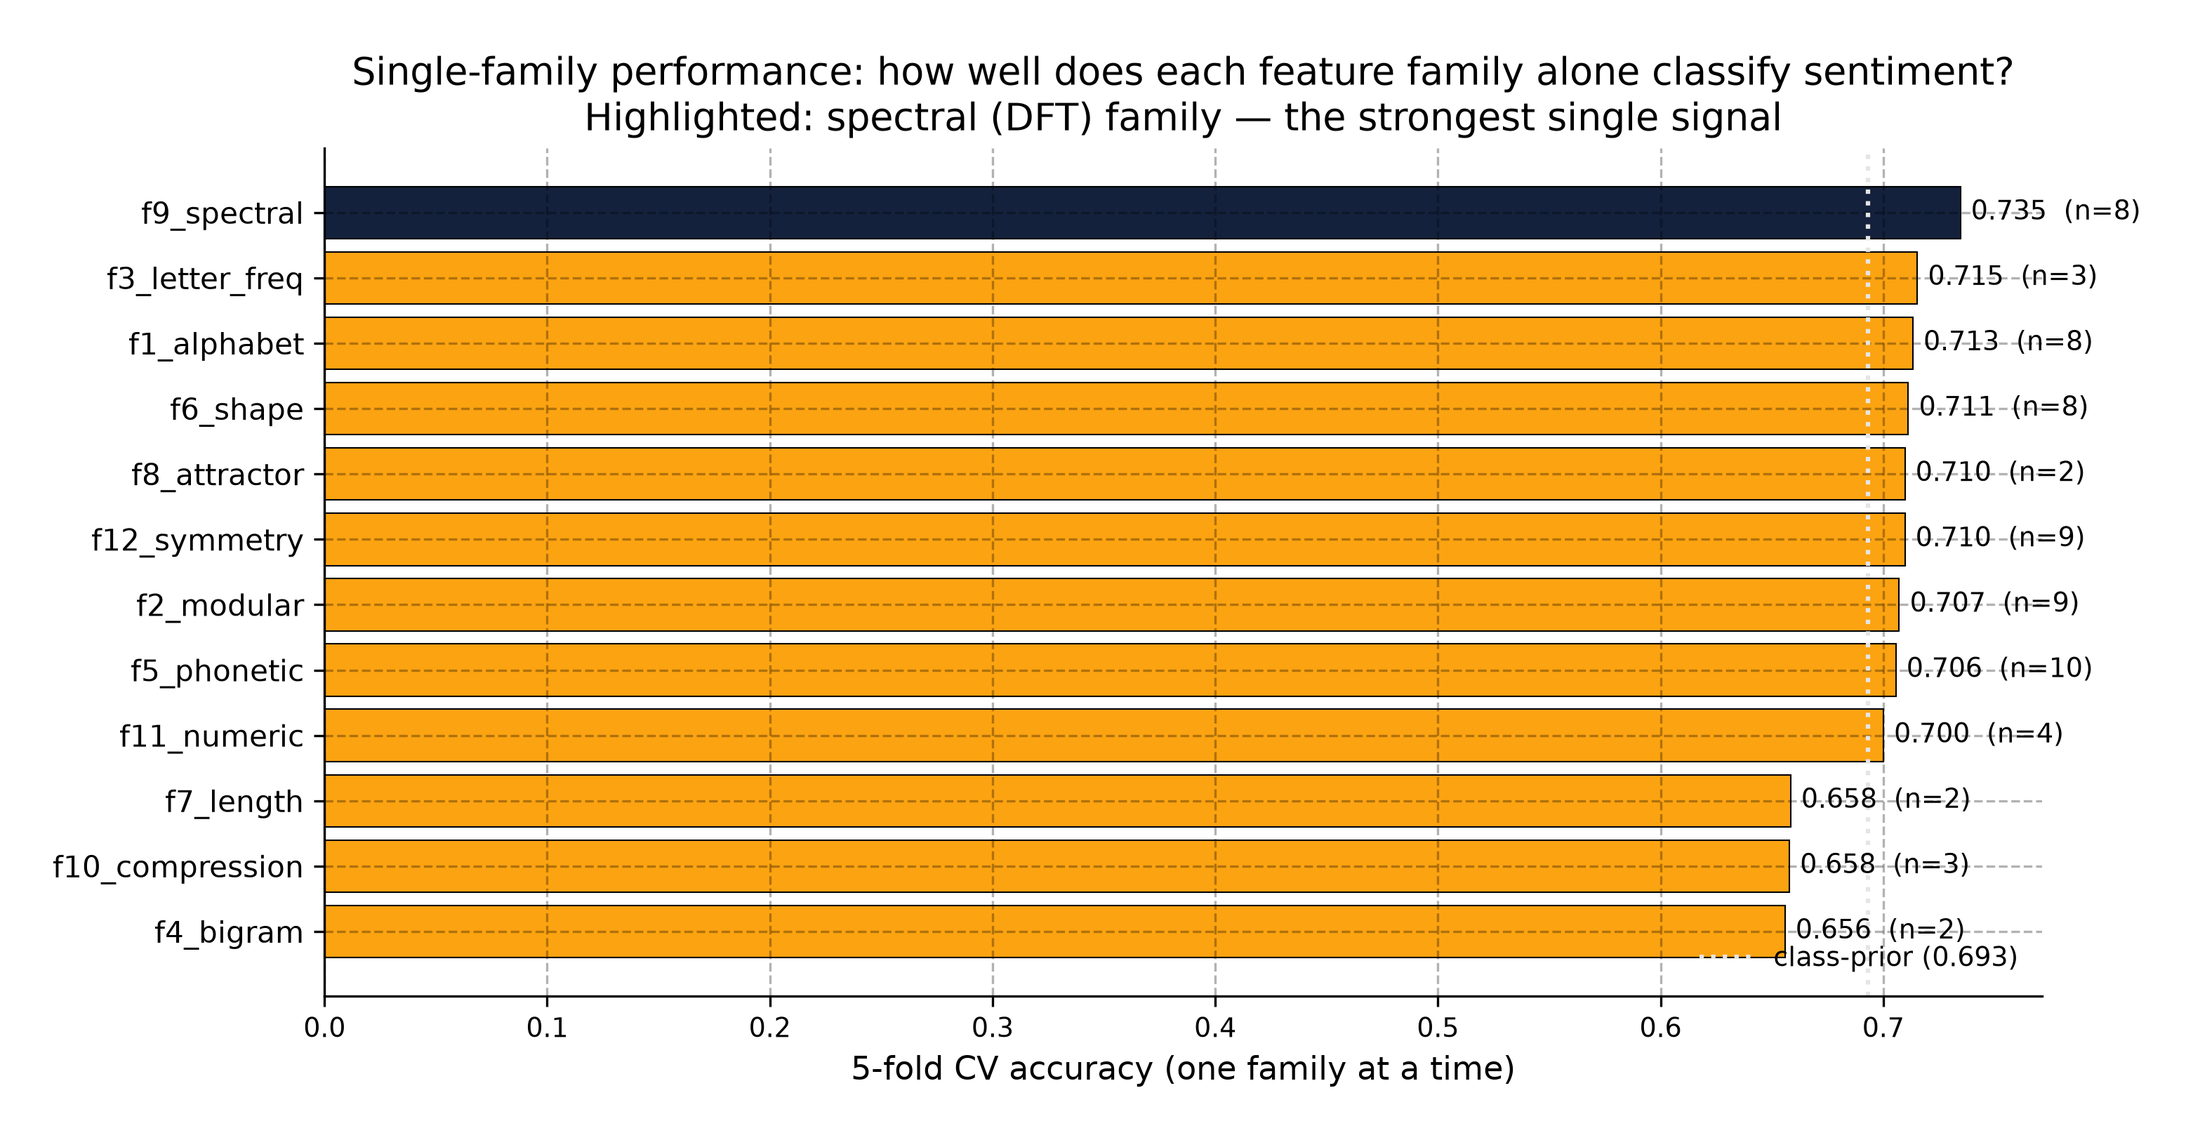
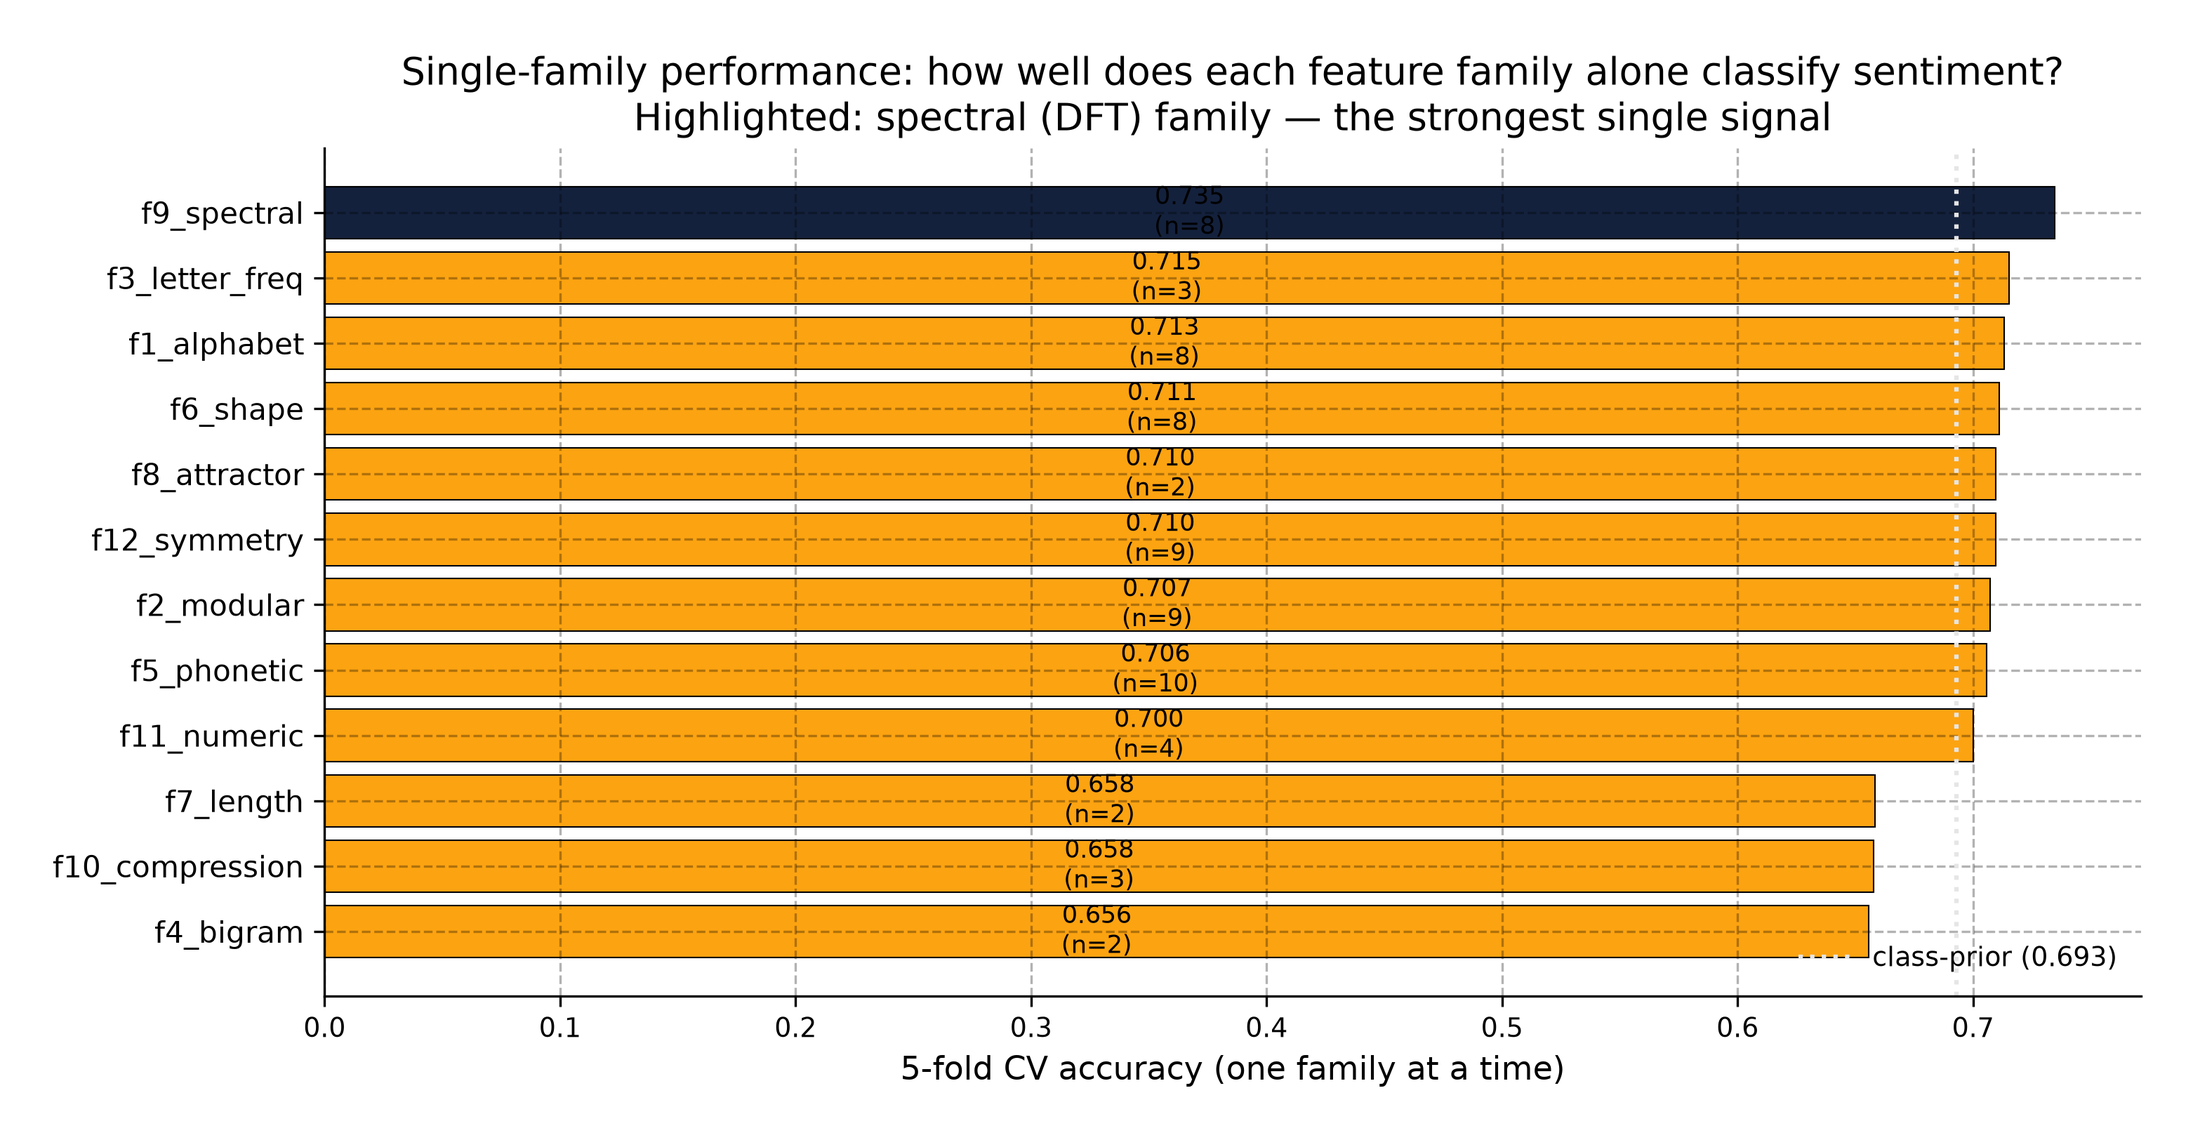
Fix text collisions in every figure; add reproducible overlap gate; extend audit with baseline/leak checks
Figures (all 15 now verified overlap-free via bbox collision scan):
- general_news_eval: Panel B method-name tick labels collided (IoU 0.5-1.0);
  replaced with short labels + 32deg rotation; Panel A adds the majority-class
  baseline line (0.616) disclosed in the previous pass.
- cascade_sentiment_eval: same tick-label collision in Panels B and C fixed
  with short labels + steeper rotation.
- family_ablation, word_level_correlations: negative-bar value labels (ha=right)
  bled past the axes into y-tick labels; now ha=left with a _pad_xlim_for_texts
  helper that measures text extent and grows the x-limits so nothing clips.
- single_family: value labels moved inside the bars to clear the legend.
- feature_heatmap: the separate 'r=...' artist overlapped every row label
  (IoU 0.79); r values folded into the y-tick labels.
- shap_waterfall: SHAP's own waterfall layout painted 'value = feature' text
  on top of its tick labels (96+ collisions); replaced with a hand-drawn
  matplotlib waterfall with controlled label placement.
- New src/check_figure_overlaps.py regenerates every figure and fails on any
  text-text bbox overlap (threshold 2 px) - the quality gate.

robustness_analysis.py additions (all numbers already in the docs, now
reproducible):
- majority-class baseline (0.6160) for the general clear set
- leak-adjusted headline dropping NewsMTSC dev rows 268/308: 0.6210 vs 0.5778,
  +4.31 pts, same 31/3 discordant pairs - the 2-sentence training overlap
[…]

diff --git a/src/figures.py b/src/figures.py
@@ -39,6 +39,32 @@ COLORS = {
 }
 
 
+def _pad_xlim_for_texts(ax, texts, edge_pad_px: float = 6.0) -> None:
+    """Expand the x-limits so out-of-axis value labels are never clipped.
+
+    Text artists placed past the data extrema (e.g. bar value labels anchored
+    at a bar tip) are not accounted for by matplotlib's autoscale, so they can
+    bleed past the axes edge and collide with tick labels. Draw once, measure
+    the overshoot in pixels, and grow the x-limits accordingly.
+    """
+    fig = ax.figure
+    fig.canvas.draw()
+    renderer = fig.canvas.get_renderer()
+    axbox = ax.get_window_extent(renderer=renderer)
+    lo, hi = ax.get_xlim()
+    need_lo = need_hi = 0.0
+    for t in texts:
+        e = t.get_window_extent(renderer=renderer)
+        if e.x0 < axbox.x0 + edge_pad_px:
+            need_lo = max(need_lo, axbox.x0 - e.x0 + edge_pad_px)
+        if e.x1 > axbox.x1 - edge_pad_px:
+            need_hi = max(need_hi, e.x1 - axbox.x1 + edge_pad_px)
+    ddx_lo = (hi - lo) * need_lo / axbox.width
+    ddx_hi = (hi - lo) * need_hi / axbox.width
+    if ddx_lo > 0 or ddx_hi > 0:
+        ax.set_xlim(lo - ddx_lo, hi + ddx_hi)
+
+
 # ---- 1. Headline summary figure ----
 def plot_headline_summary(out_path: Path) -> None:
     """One-glance figure: CV accuracy vs class-prior baseline + null distribution.
@@ -163,8 +189,8 @@ def plot_word_level_correlations(out_path: Path) -> None:
                  f"Green = significant at Bonferroni α = 0.05/68 ≈ 7.4e-4")
     for i, (bar, row) in enumerate(zip(bars, df.itertuples())):
         ax.text(row.r + (0.001 if row.r > 0 else -0.001), i,
-                f" {row.r:+.3f}", va="center",
-                ha="left" if row.r > 0 else "right", fontsize=9)
+                f" {row.r:+.3f}", va="center", ha="left", fontsize=9)
+    _pad_xlim_for_texts(ax, [t for t in ax.texts])
     fig.savefig(out_path, dpi=300)
     plt.close(fig)
     print(f"  Wrote {out_path.name}")
@@ -188,11 +214,10 @@ def plot_family_ablation(out_path: Path) -> None:
     ax.set_title("Leave-one-family-out ablation\n"
                  "Red = removing hurts; Green = removing helps (overfitting)")
     for bar, delta, acc in zip(bars, df["delta"], df["accuracy_mean"]):
-        ax.text(delta + (0.001 if delta >= 0 else -0.001),
-                bar.get_y() + bar.get_height()/2,
+        ax.text(delta + 0.001, bar.get_y() + bar.get_height()/2,
                 f" {delta:+.4f}  (acc={acc:.3f})",
-                va="center",
-                ha="left" if delta >= 0 else "right", fontsize=8.5)
+                va="center", ha="left", fontsize=8.5)
+    _pad_xlim_for_texts(ax, [t for t in ax.texts])
     fig.savefig(out_path, dpi=300)
     plt.close(fig)
     print(f"  Wrote {out_path.name}")
@@ -214,8 +239,8 @@ def plot_single_family(out_path: Path) -> None:
     ax.set_title("Single-family performance: how well does each feature family alone classify sentiment?\n"
                  "Highlighted: spectral (DFT) family — the strongest single signal")
     for bar, acc, n in zip(bars, df["accuracy_mean"], df["n_features"]):
-        ax.text(acc + 0.001, bar.get_y() + bar.get_height()/2,
-                f" {acc:.3f}  (n={n})", va="center", fontsize=9)
+        ax.text(acc / 2, bar.get_y() + bar.get_height()/2,
+                f"{acc:.3f}\n(n={n})", va="center", ha="center", fontsize=8.5)
     ax.legend(loc="lower right")
     fig.savefig(out_path, dpi=300)
     plt.close(fig)
@@ -353,10 +378,11 @@ def plot_feature_heatmap(out_path: Path) -> None:
                  "Red = feature is higher in low-valence words; Blue = higher in high-valence words")
     cbar = fig.colorbar(im, ax=ax, fraction=0.04, pad=0.04)
     cbar.set_label("Z-score (per feature)", fontsize=9)
-    # Annotate with the raw r value
-    for i, f in enumerate(top_features):
-        r = corr_df[corr_df["feature"] == f]["r"].iloc[0]
-        ax.text(-0.5, i, f"r={r:+.3f}", ha="right", va="center", fontsize=7.5, color="black")
+    # Annotate with the raw r value, folded into the row labels so it can never
+    # collide with the tick text (a separate left-side artist did).
+    r_by_feat = {row.feature: row.r for row in corr_df.itertuples()}
+    ax.set_yticklabels([f"{f}  (r={r_by_feat[f]:+.3f})" for f in top_features],
+                       fontsize=9)
     fig.savefig(out_path, dpi=300)
     plt.close(fig)
     print(f"  Wrote {out_path.name}")

diff --git a/src/visualise.py b/src/visualise.py
@@ -292,15 +292,16 @@ def make_shap_bar(shap_values, feature_names, n_top=30):
 # ══════════════════════════════════════════════════════════════════════════════
 
 def make_shap_waterfall(shap_vals, X_sample, feature_names, explainer,
-                        pos_idx=0, neg_idx=None):
+                        pos_idx=0, neg_idx=None, max_display=12):
     """
     Waterfall plots for one positive and one negative prediction.
     Shows how each feature pushes the prediction toward or away from positive.
     Pass the same TreeExplainer used in main() so we get the correct expected_value.
-    """
-    import shap
-    from shap import Explanation
 
+    Drawn manually with matplotlib instead of ``shap.plots.waterfall``: SHAP's
+    internal layout places "value = feature" text over its own y-tick labels on
+    narrow axes, which cannot be repositioned from outside.
+    """
     short = {fn: fn[:28] for fn in feature_names}
     n_feats = len(feature_names)
 
@@ -314,17 +315,51 @@ def make_shap_waterfall(shap_vals, X_sample, feature_names, explainer,
     else:
         ev = float(ev)
 
-    fig, axes = plt.subplots(1, 2, figsize=(16, 5))
+    fig, axes = plt.subplots(1, 2, figsize=(22, 6))
 
     def _plot(idx, ax, label):
-        sv = shap_vals[idx, :n_feats].copy()
+        sv = shap_vals[idx, :n_feats].astype(float)
         dr = X_sample[idx, :n_feats]
-        exp = Explanation(values=sv, base_values=ev, data=dr,
-                          feature_names=[short[f] for f in feature_names])
-        plt.sca(ax)
-        shap.plots.waterfall(exp, show=False, max_display=15)
-        ax.set_title(f"Predicted: {label.upper()}", fontsize=10)
-        ax.tick_params(labelsize=7)
+        order = np.argsort(-np.abs(sv))
+        display = list(order[:max_display])
+        other_sv = 0.0
+        if len(order) > max_display:
+            other_sv = float(sv[order[max_display:]].sum())
+            display.append(-1)
+        rows = np.arange(len(display))
+        pos = float(ev)
+        y = len(display) - 1 - rows  # top-down order
+        for i, fi in enumerate(display):
+            if fi == -1:
+                val = other_sv
+                name = f"{len(order) - max_display} other features"
+            else:
+                val = float(sv[fi])
+                fn = short[feature_names[fi]]
+                dv = float(dr[fi]) if not np.isnan(dr[fi]) else np.nan
+                name = f"{fn} = {dv:g}" if not np.isnan(dv) else fn
+            color = "#B04040" if val >= 0 else "#4A6FA5"
+            ypos = y[i]
+            ax.annotate(
+                "", xy=(pos + val, ypos), xytext=(pos, ypos),
+                arrowprops=dict(arrowstyle="-|>", lw=1.8, color=color),
+                annotation_clip=False,
+            )
+            ax.text(pos + val / 2, ypos + 0.28, name, ha="center", va="bottom",
+                    fontsize=8, color="#222222")
+            pos += val
+        ax.axvline(ev, color="#666666", ls="--", lw=0.9)
+        xmin = min(ev, pos) - 0.5
+        xmax = max(ev, pos) + 0.5
+        ax.text(xmin + 0.02, -0.55, f"base {ev:.2f}", ha="left", va="top",
+                fontsize=7.5, color="#666666")
+        ax.text(xmax - 0.02, -0.55, f"f(x) = {pos:.2f}", ha="right", va="top",
+                fontsize=9, fontweight="bold")
+        ax.set_xlim(xmin, xmax)
+        ax.set_ylim(-0.8, len(display) + 0.4)
+        ax.set_yticks([])
+        ax.set_xticks([])
+        ax.set_title(f"Predicted: {label.upper()}", fontsize=11, fontweight="bold")
 
     _plot(pos_idx, axes[0], "positive")
     _plot(neg_idx, axes[1], "negative")

diff --git a/src/check_figure_overlaps.py b/src/check_figure_overlaps.py
@@ -1,0 +1,94 @@
+"""Reproducible figure-quality gate: no two text artists may overlap.
+
+Regenerates every figure through its own module and, at savefig time, checks
+the window extents of all rendered text (labels, tick labels, titles, legend
+texts, annotations) for pairwise bounding-box collisions. Exits non-zero if any
+figure has an overlap above the threshold, so it can gate the pipeline.
+
+Run from the research repo root:
+    ./esg-dashboard/.venv/bin/python -m src.check_figure_overlaps
+
+Threshold note: a pair counts as an overlap when both axes overlap by more than
+2 px in each direction (boxes of ordinary neighbouring labels touch without
+merging). Pure touching is allowed; merging is not.
+"""
+from __future__ import annotations
+
+import sys
+from pathlib import Path
+
+import matplotlib
+matplotlib.use("Agg")
+
+import matplotlib.figure
+
+REPO = Path(__file__).resolve().parent.parent
+sys.path.insert(0, str(REPO))
+
+MIN_OVERLAP_PX = 2.0
+failures: list[str] = []
+
+
+def _texts(ax):
+    out = list(ax.texts) + list(ax.get_xticklabels()) + list(ax.get_yticklabels())
+    out += [ax.title, ax.xaxis.label, ax.yaxis.label]
+    legend = ax.get_legend()
+    if legend is not None:
+        out += legend.get_texts()
+    return [t for t in out if t.get_text().strip()]
+
+
+def check(fig, out_path) -> None:
+    fig.canvas.draw()
+    try:
+        renderer = fig.canvas.get_renderer()
+    except AttributeError:
+        from matplotlib.backends.backend_agg import FigureCanvasAgg
+        renderer = FigureCanvasAgg(fig).get_renderer()
+    total = 0
+    for ax in fig.axes:
+        ts = _texts(ax)
+        for i in range(len(ts)):
+            for j in range(i + 1, len(ts)):
+                ea = ts[i].get_window_extent(renderer=renderer)
+                eb = ts[j].get_window_extent(renderer=renderer)
+                ix = min(ea.x1, eb.x1) - max(ea.x0, eb.x0)
+                iy = min(ea.y1, eb.y1) - max(ea.y0, eb.y0)
+                if ix > MIN_OVERLAP_PX and iy > MIN_OVERLAP_PX:
+                    total += 1
+                    print(f"  OVERLAP {ts[i].get_text()[:40]!r} x {ts[j].get_text()[:40]!r}")
+    status = "OK" if total == 0 else f"FAIL ({total} overlaps)"
+    print(f"{out_path}: {status}")
+    if total:
+        failures.append(str(out_path))
+
+
+def _wrap_and_run(module_name: str) -> None:
+    orig = matplotlib.figure.Figure.savefig
+
+    def checked(fig, *a, **k):
+        check(fig, a[0])
+        return orig(fig, *a, **k)
+
+    matplotlib.figure.Figure.savefig = checked
+    try:
+        __import__(module_name, fromlist=["main"]).main()
+    finally:
+        matplotlib.figure.Figure.savefig = orig
+
+
+def main() -> None:
+    for mod in ("src.figures", "src.figures_cascade", "src.figures_general"):
+        print(f"== {mod} ==")
+        _wrap_and_run(mod)
+    print("== src.visualise ==")
+    _wrap_and_run("src.visualise")
+    print()
+    if failures:
+        print("FIGURE QUALITY GATE FAILED:", *failures, sep="\n  ")
+        sys.exit(1)
+    print("FIGURE QUALITY GATE PASSED: no text overlaps in any figure.")
+
+
+if __name__ == "__main__":
+    main()

diff --git a/src/robustness_analysis.py b/src/robustness_analysis.py
@@ -148,6 +148,44 @@ def main() -> None:
         lo, hi = wilson_ci(len(yc), kk)
         print(f"  {k:20s} {kk / len(yc):.4f} [{lo:.4f}, {hi:.4f}]")
 
+    from collections import Counter
+    cnt = Counter(yc.tolist())
+    maj = max(cnt.values()) / len(yc)
+    print(f"\n== CLEAR SET class balance ==")
+    print(f"  {dict(cnt)}  majority-class baseline = {maj:.4f} "
+          f"(heavy_gen {np.mean(methods_c['heavy_gen'] == yc):.4f} is "
+          f"{'above' if np.mean(methods_c['heavy_gen'] == yc) > maj else 'BELOW'} it)")
+
+    # Leak-adjusted headline: drop the two overlapped clear-polarity NewsMTSC
+    # devtest sentences that also appear in the news cheap tier's training split
+    # (dev rows 268 and 308).
+    clean = [r for r in clear if int(r["id"]) not in (268, 308)]
+    yl = np.array([int(r["true"]) for r in clean])
+    lc = _cascade_labels(clean, "cascade_news_gen_label")
+    lh = _labels(clean, "heavy_gen_v")
+    bb, cc = paired_counts(yl, lc, lh)
+    print(f"\n== leak-adjusted headline (drop dev rows 268, 308) ==")
+    print(f"  n = {len(yl)}: cascade_news {np.mean(lc == yl):.4f} vs heavy_gen "
+          f"{np.mean(lh == yl):.4f} (gap {100*(np.mean(lc == yl) - np.mean(lh == yl)):+.2f} pts); "
+          f"b/c = {bb}/{cc} p = {mcnemar_p(bb, cc):.3g}")
+
+    # Per-class composition of the headline discordant pairs.
+    d = [(i, int(r["true"])) for i, r in enumerate(clear)
+         if methods_c["cascade_news_gen"][i] != methods_c["heavy_gen"][i]]
+    cwin = [t for _, t in d if methods_c["cascade_news_gen"][_] == t]
+    hwin = [t for _, t in d if methods_c["heavy_gen"][_] == t]
+    print(f"\n== headline discordant pairs by true class ==")
+    print(f"  cascade wins {len(cwin)} ({dict(Counter(cwin))}), "
+          f"heavy wins {len(hwin)} ({dict(Counter(hwin))}); "
+          f"heavy_gen per-class acc "
+          f"{ {0: round(float(np.mean(methods_c['heavy_gen'][yc == 0] == 0)), 4),
+               2: round(float(np.mean(methods_c['heavy_gen'][yc == 2] == 2)), 4)} }")
+
+    # VADER fallback never fires in this eval.
+    print(f"\n== VADER fallback usage ==")
+    print(f"  cascade_news_gen tier == vader on full dev: "
+          f"{sum(1 for r in rows if r['cascade_news_gen_tier'] == 'vader')} / {len(rows)}")
+
     pairs = [
         ("cascade_news_gen", "heavy_gen"),
         ("cascade_fpb_gen", "heavy_gen"),

diff --git a/src/figures_general.py b/src/figures_general.py
@@ -101,9 +101,22 @@ def main() -> None:
                 va="center", ha="left", fontsize=8)
     ax.axvline(0.5, color=PALETTE["black"], ls=":", lw=0.8, alpha=0.5)
     ax.text(0.505, len(METHODS) - 0.4, "chance", fontsize=7, color=PALETTE["black"], alpha=0.6)
+    ax.axvline(0.616, color=PALETTE["black"], ls="--", lw=0.9, alpha=0.7)
+    ax.text(0.622, len(METHODS) - 0.4, "majority class\n(401 neg / 250 pos)", fontsize=6.5,
+            color=PALETTE["black"], alpha=0.7, va="top", ha="left")
 
     # ---- Panel B: misclassification breakdown (clear set) ----
     ax = axes[0, 1]
+    short = {
+        "keyword": "keyword",
+        "vader": "VADER",
+        "cheap_fpb": "cheap-FPB",
+        "cheap_news": "cheap-news",
+        "cascade_fpb_gen": "cas-FPB",
+        "cascade_news_gen": "cas-news",
+        "heavy_fin": "FinBERT",
+        "heavy_gen": "gen-BERT",
+    }
     x = np.arange(len(METHODS))
     correct, wrong_pol, neut_miss = [], [], []
     for m in METHODS:
@@ -125,11 +138,12 @@ def main() -> None:
     ax.bar(x, neut_miss, bottom=np.array(correct) + np.array(wrong_pol),
            color=PALETTE["alabaster"], label="predicted neutral")
     ax.set_xticks(x)
-    ax.set_xticklabels([METHOD_LABELS[m] for m in METHODS], rotation=20, ha="right")
-    ax.set_ylim(0, 1.05)
+    ax.set_xticklabels([short[m] for m in METHODS], rotation=32, ha="right", fontsize=7.5)
+    ax.set_ylim(0, 1.08)
     ax.set_ylabel("Fraction of clear set")
     ax.set_title("B. Misclassification (clear polarity)", fontweight="bold")
-    ax.legend(loc="upper center", ncol=3, frameon=True)
+    ax.legend(loc="upper center", ncol=3, frameon=True, fontsize=8,
+              bbox_to_anchor=(0.5, 1.02))
 
     # ---- Panel C: cascade tier routing (news-cheap x general heavy) ----
     ax = axes[1, 0]

diff --git a/src/figures_cascade.py b/src/figures_cascade.py
@@ -45,6 +45,13 @@ METHOD_COLORS = {
     "cascade": PALETTE["orange"],
     "heavy": PALETTE["prussian"],
 }
+SHORT_LABELS = {
+    "keyword": "keyword",
+    "vader": "VADER",
+    "cheap": "cheap",
+    "cascade": "cascade",
+    "heavy": "FinBERT",
+}
 BAND = 0.1  # neutral band on the quadratic score (matches engine default)
 CHEAP_THRESHOLD = 0.6  # cascade routing threshold (matches engine default)
 CODE_LABEL = {0: "negative", 1: "neutral", 2: "positive"}
@@ -136,7 +143,7 @@ def main() -> None:
     ax.bar(x, neut_miss, bottom=np.array(correct) + np.array(wrong_pol),
            color=PALETTE["alabaster"], label="predicted neutral")
     ax.set_xticks(x)
-    ax.set_xticklabels([METHOD_LABELS[m] for m in METHODS], rotation=20, ha="right")
+    ax.set_xticklabels([SHORT_LABELS[m] for m in METHODS], rotation=32, ha="right", fontsize=7.5)
     ax.set_ylim(0, 1.05)
     ax.set_ylabel("Fraction of clear set")
     ax.set_title("B. Misclassification (clear polarity)", fontweight="bold")
@@ -158,7 +165,7 @@ def main() -> None:
     band_label = f"neutral band (|score| = {BAND:.2f})"
     ax.text(4.45, BAND + 0.02, band_label, fontsize=8, color=PALETTE_WARM["accent"])
     ax.set_xticks(positions)
-    ax.set_xticklabels([METHOD_LABELS[m] for m in METHODS], rotation=20, ha="right")
+    ax.set_xticklabels([SHORT_LABELS[m] for m in METHODS], rotation=32, ha="right", fontsize=7.5)
     ax.set_ylabel("|score| on neutral news (quadratic)")
     ax.set_ylim(0, 1.05)
     ax.set_title("C. Borderline uncertainty (neutral set)", fontweight="bold")
